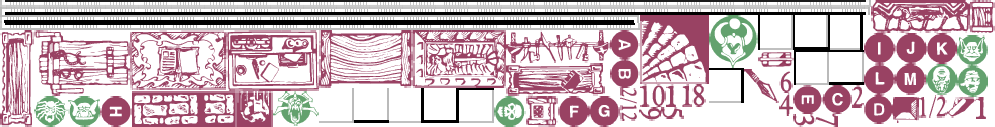
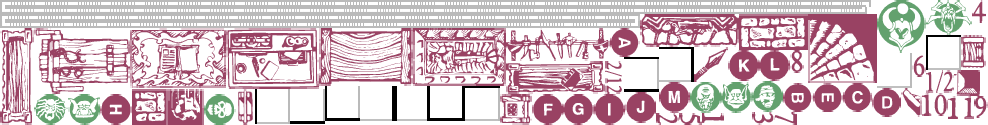
add menu fixes and furniture

diff --git a/modules/editor/actors.js b/modules/editor/actors.js
@@ -1,3 +1,4 @@
+import BoardConfig from '@@/data/board.json'
 import Config from '@@/config/env'
 import Grid from './grid'
 import Menu from './menu'
@@ -18,8 +19,8 @@ export default class Actors {
     this.grid = new Grid()
     this.menu = new Menu()
     this.wrapper = new this.PIXI.Container()
-    this.wrapper.x = 6
-    this.wrapper.y = 6
+    this.wrapper.x = BoardConfig.margin
+    this.wrapper.y = BoardConfig.margin
     this.sheet = this.PIXI.Loader.shared.resources[`${Config.paths.base_url}/api/editor.json`].spritesheet
     this.TileHelper = Tile(window.Store.state.board.map)
     this.slots = 0
@@ -110,6 +111,25 @@ export default class Actors {
     })
   }
 
+  addFurniture (type, y = 0, x = 0) {
+    const tiles = window.Store.state.board.selectedTiles
+    const tileObj = this.TileHelper.getTilebyHandle(tiles[0])
+    const furniture = new this.PIXI.Sprite(this.sheet.textures[`${type}.png`])
+    furniture.label = type
+    furniture.x = tileObj.c * 33 + x
+    furniture.y = tileObj.l * 33 + y
+
+    furniture
+      .on('pointerdown', (event) => this.onStartDrag(event, furniture))
+      .on('pointermove', () => this.onMoveDrag(furniture))
+      .on('pointerupoutside', (event) => this.onStopDrag(event, { actor: furniture, y, x }))
+      .on('pointerup', (event) => this.onStopDrag(event, { actor: furniture, y, x }))
+      .interactive = true
+
+    this.wrapper.addChild(furniture)
+    this.closeMenu()
+  }
+
   addActor ({ type, x, y, anchorX = 0, anchorY = 0, rotation = 0, width = 33, height = 33, drag = true, close = true }) {
     const actor = new this.PIXI.Sprite(this.sheet.textures[`${type}.png`])
     actor.label = type
@@ -136,8 +156,13 @@ export default class Actors {
     actor
       .on('pointerdown', (event) => this.onStartDrag(event, actor))
       .on('pointermove', () => this.onMoveDrag(actor))
-      .on('pointerupoutside', (event) => this.onStopDrag(event, actor))
-      .on('pointerup', (event) => this.onStopDrag(event, actor))
+      .on('pointerupoutside', (event) => this.onStopDrag(event, { actor, x: 0, y: 0 }))
+      .on('pointerup', (event) => this.onStopDrag(event, { actor, x: 0, y: 0 }))
+      .on('rightdown', async function (e) {
+        const x = e.data.global.x
+        const y = e.data.global.y
+        this.menu.openMenu({ x, y })
+      })
       .interactive = true
   }
 
@@ -159,13 +184,13 @@ export default class Actors {
     }
   }
 
-  onStopDrag (event, actor) {
-    const gridX = parseInt(event.data.global.x) - 6
-    const gridY = parseInt(event.data.global.y) - 6
+  onStopDrag (event, { actor, y = 0, x = 0 }) {
+    const gridX = parseInt(event.data.global.x) - BoardConfig.margin
+    const gridY = parseInt(event.data.global.y) - BoardConfig.margin
     const diffX = gridX % 33
     const diffY = gridY % 33
-    actor.x = gridX - diffX
-    actor.y = gridY - diffY
+    actor.x = (gridX - diffX) + x
+    actor.y = (gridY - diffY) + y
     actor.alpha = 1
     actor.dragging = false
     // set the interaction data to null

diff --git a/modules/editor/options.js b/modules/editor/options.js
@@ -45,7 +45,7 @@ export default function () {
       }
     },
     actors: {
-      addSlot: {
+      slots: {
         label: 'Adicionar Slot',
         condition: () => {
           const selected = window.Store.state.board.selectedTiles
@@ -57,7 +57,7 @@ export default function () {
           actors.addSlot(grid.tilePositon)
         }
       },
-      addMonster: {
+      monsters: {
         label: 'Adicionar Monstro',
         sub: [{
           label: 'Orc',
@@ -87,7 +87,7 @@ export default function () {
       }
     },
     map: {
-      addBlock: {
+      blocks: {
         label: 'Adicionar Bloco',
         condition: () => {
           const selected = window.Store.state.board.selectedTiles
@@ -99,7 +99,7 @@ export default function () {
           actors.addBlock()
         }
       },
-      addDoor: {
+      doors: {
         label: 'Adicionar Porta',
         condition: () => {
           const selected = window.Store.state.board.selectedTiles
@@ -110,6 +110,43 @@ export default function () {
         callback: () => {
           actors.addDoor()
         }
+      },
+      furniture: {
+        label: 'Adicionar Móvel',
+        sub: [{
+          label: 'Armário',
+          callback: () => { actors.addFurniture('cupboard', 0, 2) }
+        }, {
+          label: 'Baú',
+          callback: () => { actors.addFurniture('chest', 4, 0) }
+        }, {
+          label: 'Escrivaninha',
+          callback: () => { actors.addFurniture('alchemistsbench', 3, 4) }
+        }, {
+          label: 'Estante de Livros',
+          callback: () => { actors.addFurniture('bookcase') }
+        }, {
+          label: 'Lareira',
+          callback: () => { actors.addFurniture('fireplace', 1, 1) }
+        }, {
+          label: 'Mesa',
+          callback: () => { actors.addFurniture('table', 4, 3) }
+        }, {
+          label: 'Mesa do Livro',
+          callback: () => { actors.addFurniture('sorcererstable', 3, 2) }
+        }, {
+          label: 'Rack de Armas',
+          callback: () => { actors.addFurniture('weaponsrack') }
+        }, {
+          label: 'Tortura',
+          callback: () => { actors.addFurniture('rack', 1, 2) }
+        }, {
+          label: 'Trono',
+          callback: () => { actors.addFurniture('throne', 1, 2) }
+        }, {
+          label: 'Tumba',
+          callback: () => { actors.addFurniture('tomb', 4, 3) }
+        }]
       }
     }
   }

diff --git a/modules/editor/grid.js b/modules/editor/grid.js
@@ -18,8 +18,8 @@ export default class Grid {
   async setup () {
     this.PIXI = await import('pixi.js')
     this.grid = new this.PIXI.Container()
-    this.grid.x = 6
-    this.grid.y = 6
+    this.grid.x = BoardConfig.margin
+    this.grid.y = BoardConfig.margin
     this.grid.label = 'grid'
     this.menu = new Menu()
     this.sheet = this.PIXI.Loader.shared.resources[`${Config.paths.base_url}/api/editor.json`].spritesheet
@@ -67,7 +67,7 @@ export default class Grid {
     bleft.x = 0
     bleft.y = 0
 
-    this.grid.parent.addChild(btop, bright, bbottom, bleft)
+    this.grid.parent.addChild(bleft, btop, bright, bbottom)
 
     return this
   }
@@ -107,7 +107,11 @@ export default class Grid {
         clicks++
         if (clicks === 1) {
           timer = setTimeout(function () {
-            window.Store.commit('board/add_selected', tile.label)
+            if (window.Store.state.board.selectedTiles.indexOf(tile.label) < 0) {
+              window.Store.commit('board/add_selected', tile.label)
+            } else {
+              window.Store.commit('board/remove_selected', tile.label)
+            }
             self.drawGrid()
           }, delay)
         } else {

diff --git a/modules/editor/menu.js b/modules/editor/menu.js
@@ -110,7 +110,9 @@ export default class Menu {
           subSymbol.style.fill = textColor
         })
         .on('click', function () {
-          callback()
+          if (!sub.length) {
+            callback()
+          }
         })
         .interactive = true
     }
@@ -175,11 +177,12 @@ export default class Menu {
   drawSubMenu (optionsArr) {
     const x = this.menuX + this.bgW
     const y = this.menuY
+    const height = (optionsArr.length * this.optH) + 10
     const menuWrapper = this.drawMenuBg({
       x: x > (BoardConfig.width - this.bgW) ? x - (this.bgW * 2) : x,
-      y: y > (BoardConfig.height - this.bgH) ? y - this.bgH : y,
+      y: y > (BoardConfig.height - height) ? y - (BoardConfig.height % height) : y,
       width: this.bgW,
-      height: (optionsArr.length * this.optH) + 10
+      height: height
     })
     const group = new this.PIXI.Container()
     group.y = 5

diff --git a/store/board.js b/store/board.js
@@ -16,6 +16,9 @@ export const mutations = {
   add_selected (state, tile) {
     state.selectedTiles = [...state.selectedTiles, tile]
   },
+  remove_selected (state, tile) {
+    state.selectedTiles = state.selectedTiles.filter(t => t !== tile)
+  },
   set_selected (state, tilesArr) {
     state.selectedTiles = tilesArr
   },
